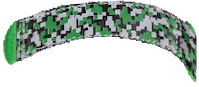
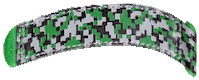
added more top view tabs

diff --git a/js/plaeChefController.js b/js/plaeChefController.js
@@ -242,8 +242,8 @@
           var tab_image_bot_left = new Image();
           var tab_image_top_right = new Image();
           var tab_image_bot_right = new Image();
-          var tabWidth = 161;
-          var tabHeight = 81;
+          var tabWidth = $scope.shoeSelected[0]["topViewTabWidth"];
+          var tabHeight = $scope.shoeSelected[0]["topViewTabHeight"];
 
 
             /** Left Shoe tabs **/
